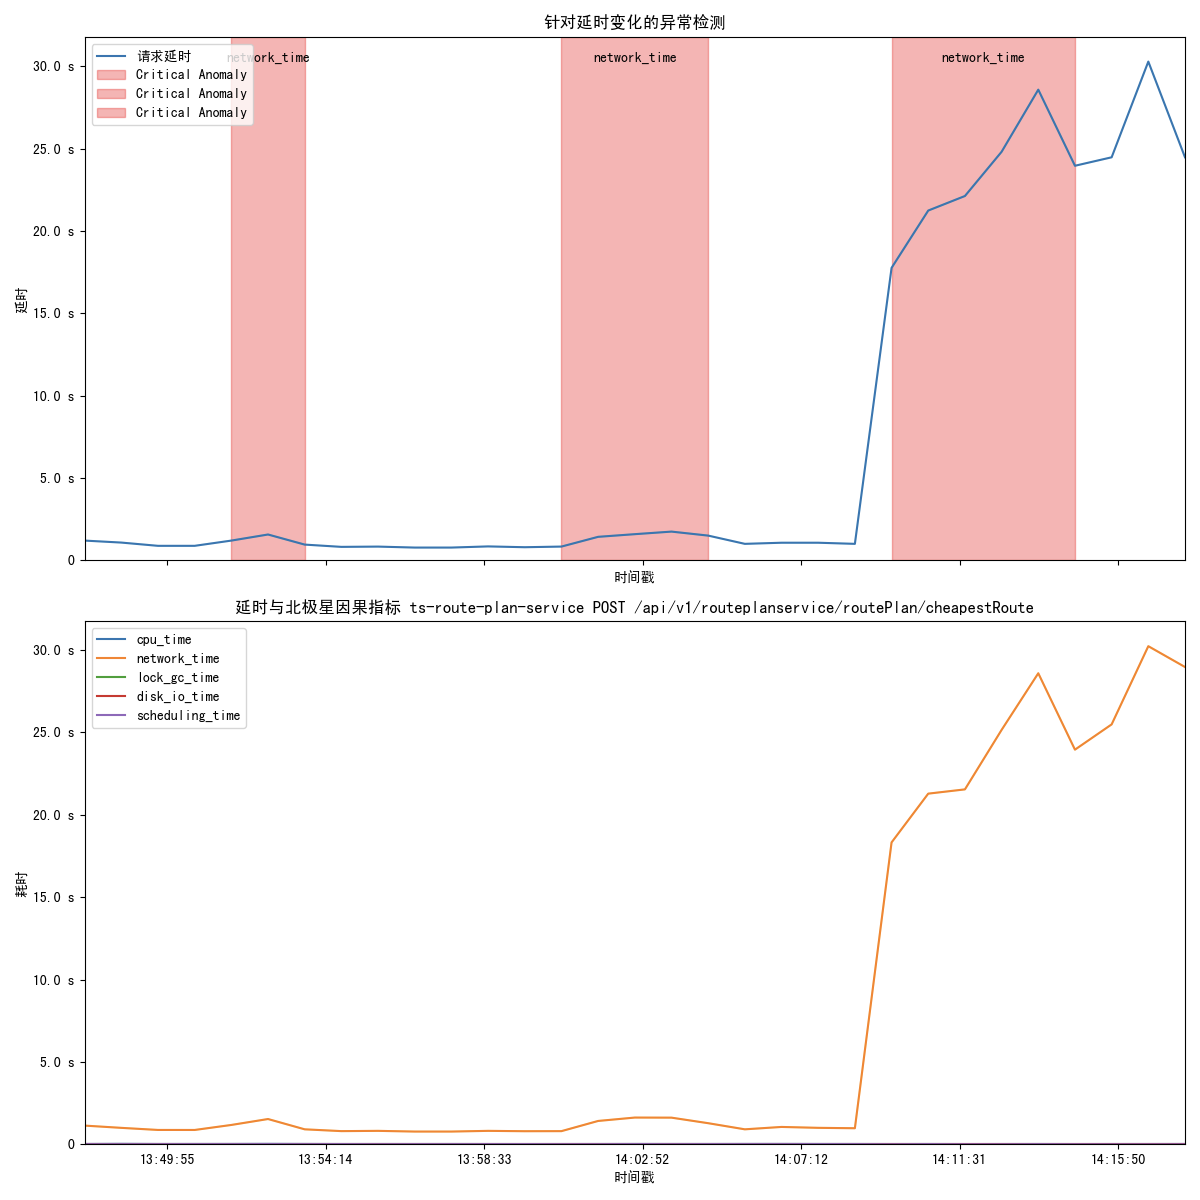
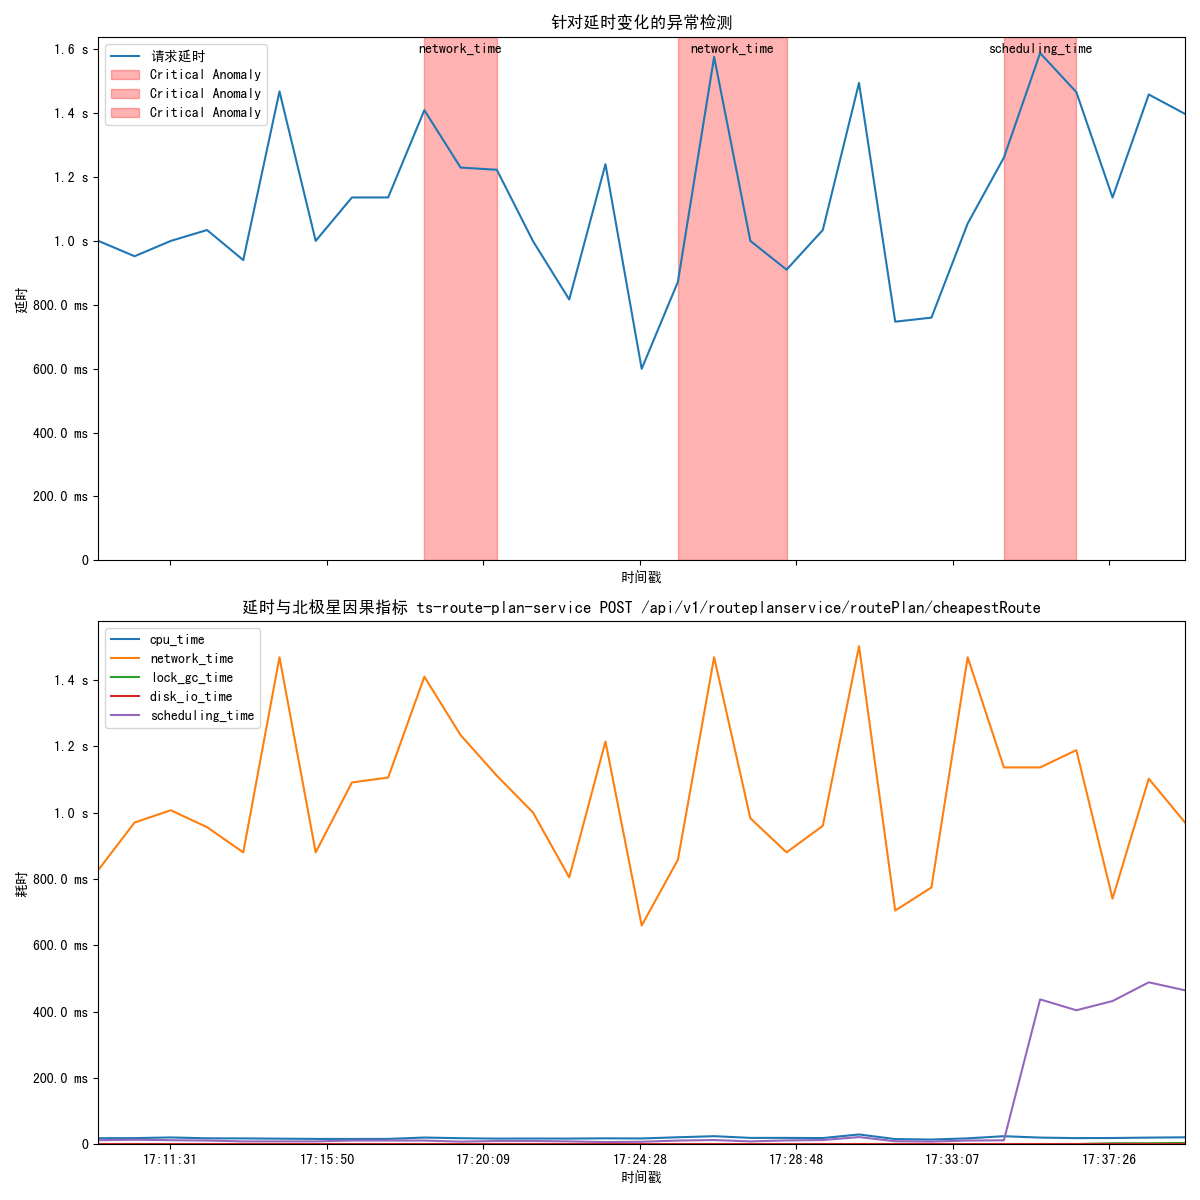
chore: 大模型对话静态页面调整

diff --git a/frontend/src/pro/views/chartAI/ChartAICom/index.tsx b/frontend/src/pro/views/chartAI/ChartAICom/index.tsx
@@ -81,6 +81,19 @@ const ChartAICom = () => {
   return (
     <Card className="h-full overflow-hidden" classNames={{ body: 'p-0 h-full' }}>
       <div className="h-full w-full flex overflow-hidden flex-col">
+        <div
+          className="flex "
+          style={{
+            borderBottom: '1px solid #303030',
+            paddingLeft: '1.5rem',
+            paddingRight: '1.6rem',
+          }}
+        >
+          <div className="w-2/3 p-3  text-lg font-bold">大模型对话</div>
+          <div className=" p-3  text-lg font-bold" style={{ borderLeft: '1.5px solid #303030' }}>
+            数据与规则说明
+          </div>
+        </div>
         <div className="w-full overflow-y-auto flex-1 p-4">
           {mockDialogue.map((item, index) => (
             <>
@@ -95,6 +108,9 @@ const ChartAICom = () => {
                       )}
                     </div>
                   ))}
+                </div>
+                <div>
+                  <Divider type="vertical" className="h-full" />
                 </div>
                 <ExampleCom children={item?.explanation} />
               </div>
